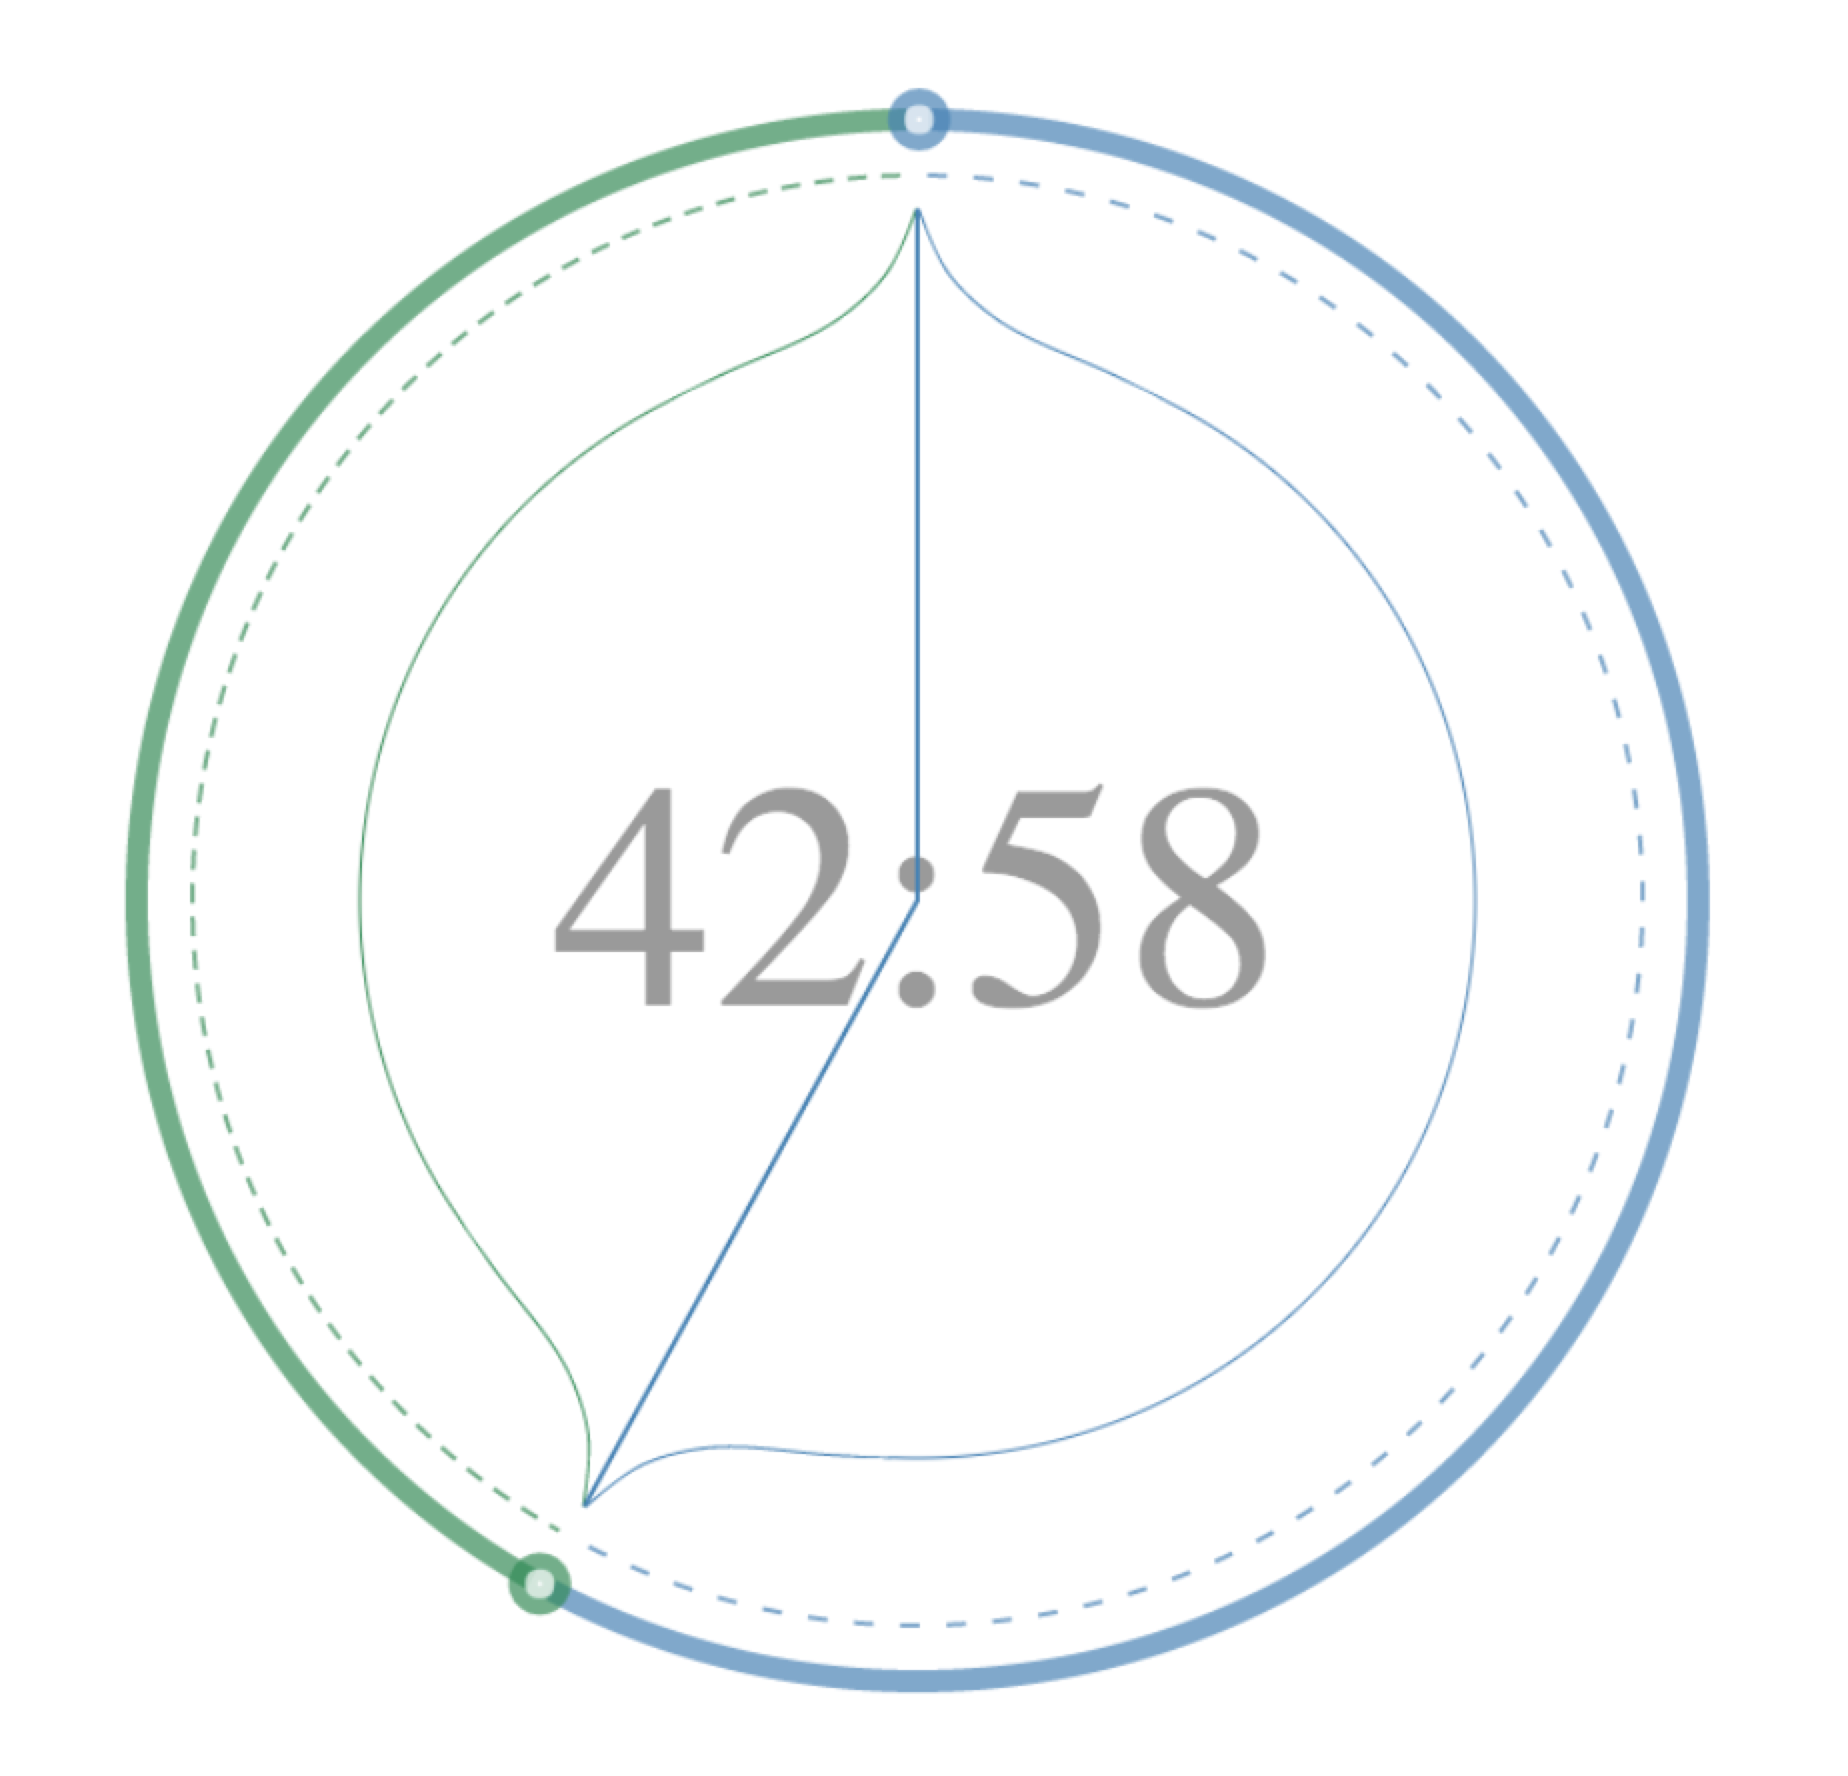
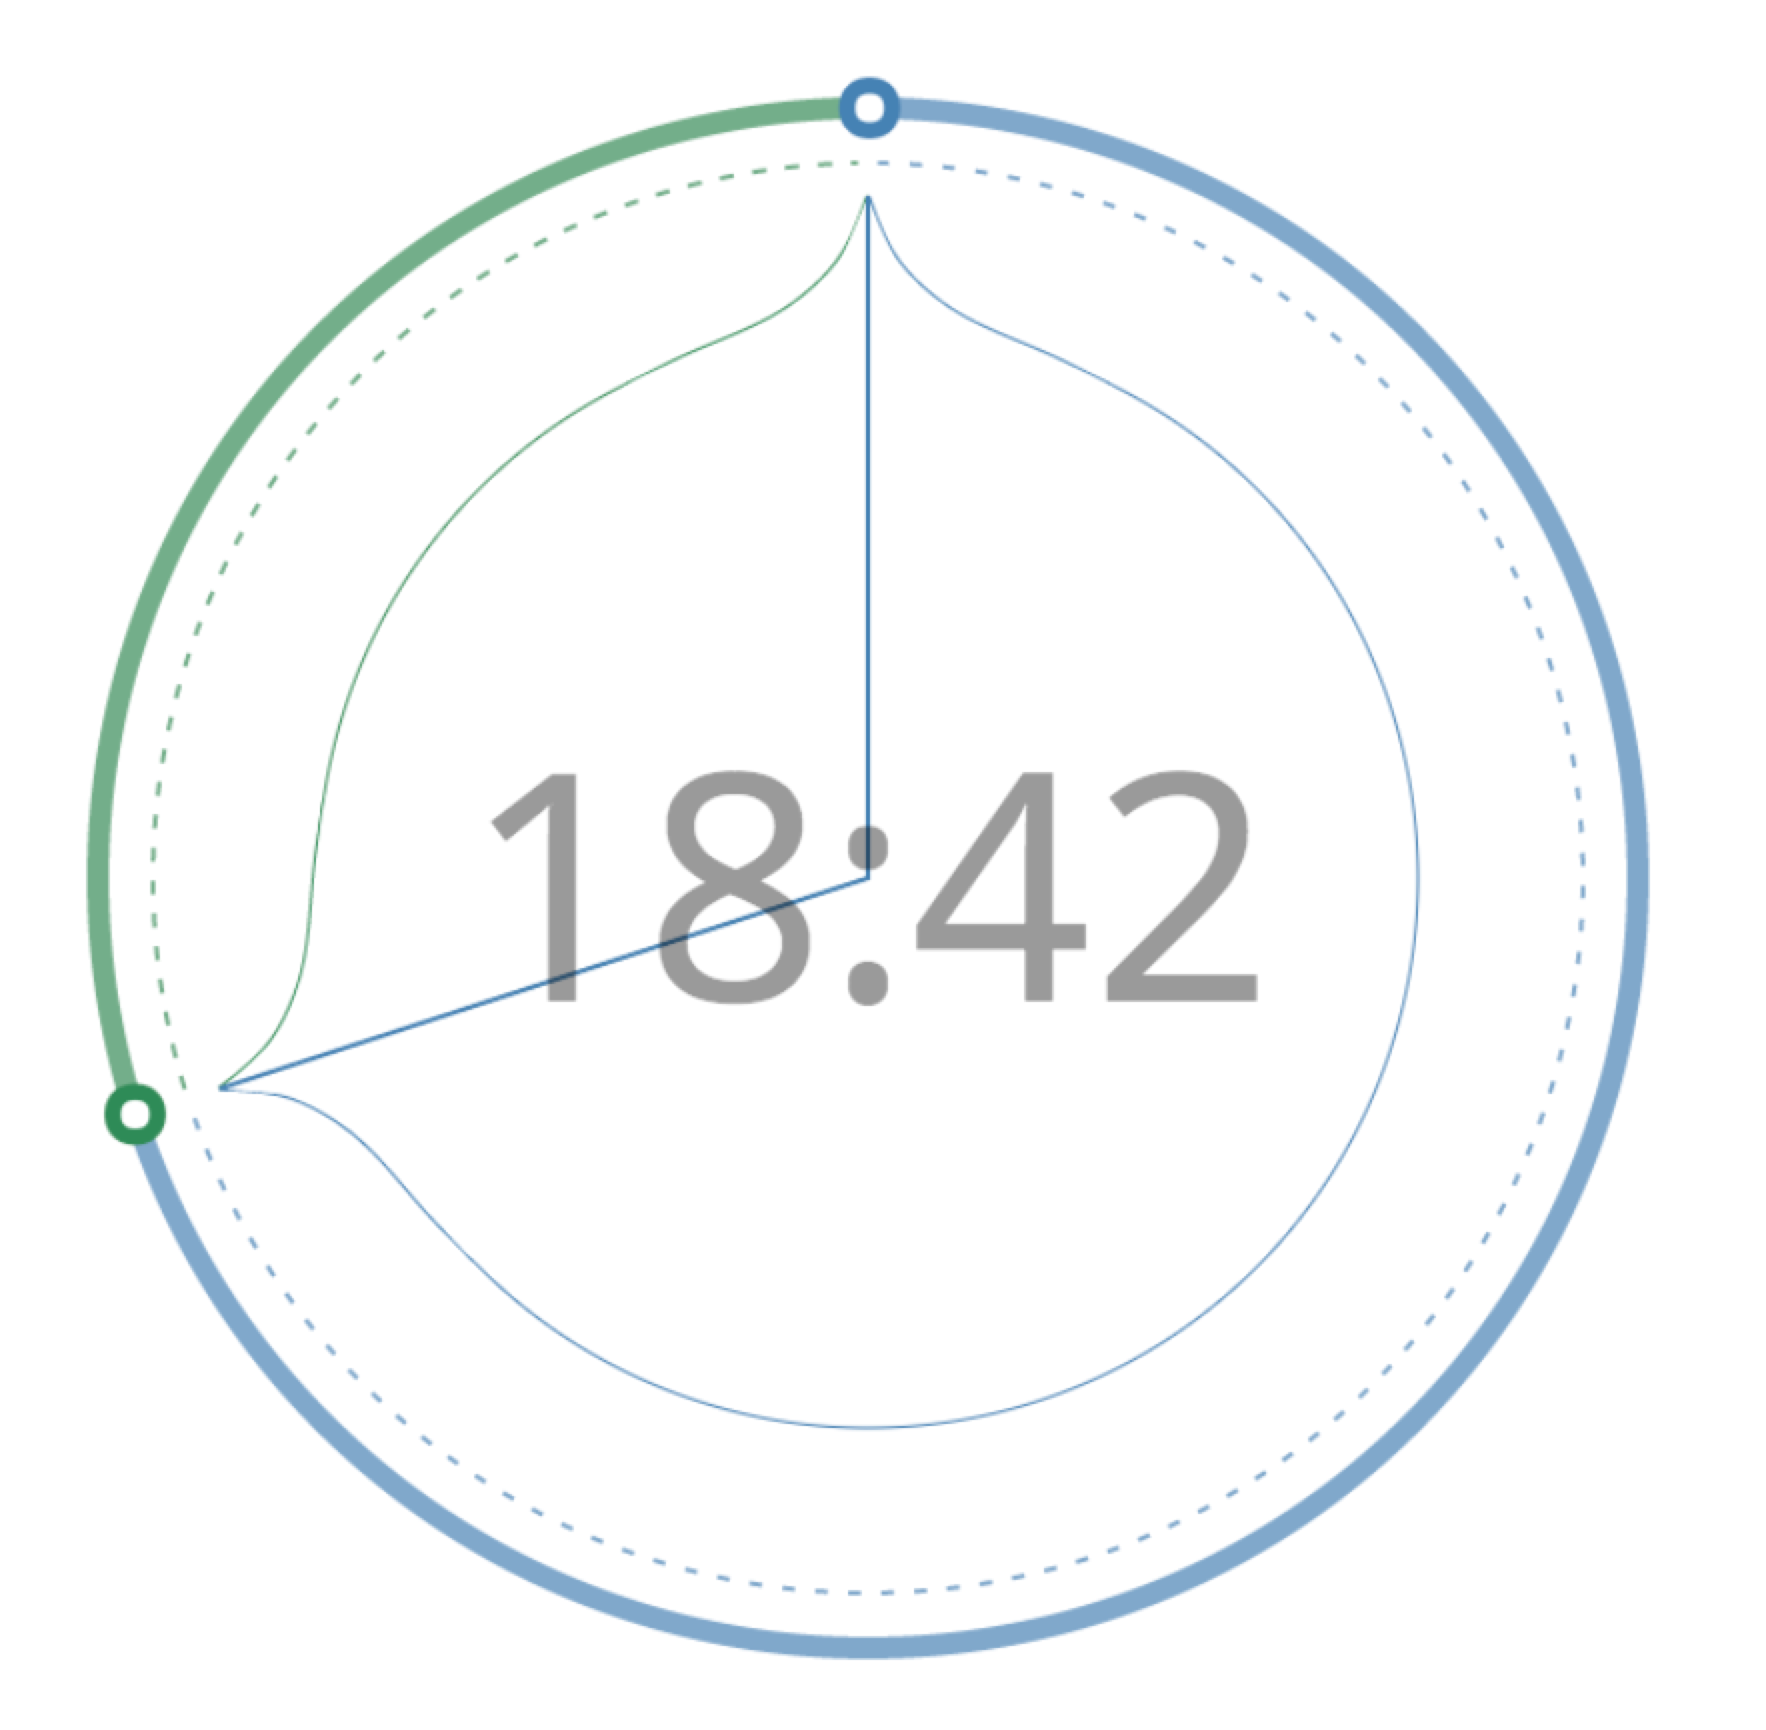
proportion  maybe done

diff --git a/lib/utils/shape.js b/lib/utils/shape.js
@@ -82,7 +82,7 @@ export function onion(context, color = ['seagreen', 'steelblue'], vest) {
 
     // lefthand erase arc
     context.save()
-    // context.lineWidth = 3;
+        // context.lineWidth = 3;
     context.strokeStyle = color[1];
     context.fillStyle = '#fff';
     context.beginPath()
@@ -99,14 +99,110 @@ export function onion(context, color = ['seagreen', 'steelblue'], vest) {
 
     // righthand erase arc
     context.save()
-    // context.lineWidth = 3;
+        // context.lineWidth = 3;
     context.strokeStyle = color[1];
     context.fillStyle = '#fff';
     context.beginPath()
 
     curve([...mirrorVestData, {
+        x: -50,
+        y: -190
+    }])
+    context.fill()
+
+    context.restore()
+
+
+
+}
+
+
+// gt 6     vs >=6
+export function onionGt6(context, color = ['seagreen', 'steelblue'], arr = ['left', 'right'], vest) {
+
+    let vestData = vest || vestConfig
+
+    const mirrorVestData = vestData.map((e, i) => {
+        return {
+            x: -e.x,
+            y: e.y
+        }
+    })
+
+
+
+    let curve = d3.line()
+        .x((d) => (d.x))
+        .y((d) => (d.y))
+        .curve(d3.curveCatmullRom.alpha(1))
+        .context(context);
+
+    // lefthand
+    function lefthand() {
+        context.save()
+        context.lineWidth = 2;
+        context.strokeStyle = color[0];
+        context.beginPath()
+
+        curve(vestData)
+        context.stroke()
+
+        context.restore()
+
+    }
+
+
+
+    // righthand
+    function righthand() {
+        context.save()
+        context.lineWidth = 2;
+        context.strokeStyle = color[1];
+        context.beginPath()
+
+        curve(mirrorVestData)
+        context.stroke()
+
+        context.restore()
+    }
+
+    (arr.length === 2) && (lefthand()) && (righthand())
+    if (arr.length === 1) {
+        arr[0] == 'left' ? lefthand() : righthand();
+    }
+
+    // lefthand()
+    // righthand()
+
+
+    // lefthand erase arc
+    context.save()
+        // context.lineWidth = 3;
+    context.strokeStyle = color[1];
+    context.fillStyle = '#fff';
+    context.beginPath()
+
+    curve([...vestData, {
         x: 0,
         y: -200
+    }])
+    context.fill();
+    console.log(12)
+
+    context.restore()
+
+
+
+    // righthand erase arc
+    context.save()
+        // context.lineWidth = 3;
+    context.strokeStyle = color[1];
+    context.fillStyle = '#fff';
+    context.beginPath()
+
+    curve([...mirrorVestData,{
+      x:0,
+      y:-200
     }])
     context.fill()
 
@@ -121,5 +217,41 @@ export function onion(context, color = ['seagreen', 'steelblue'], vest) {
  * @param  {[type]} argument [description]
  * @return {[type]}          [description]
  */
-export function gt6(argument) {
+
+const p0 = [0, 310]
+const p2 = [Math.PI, 310]
+
+export function gt6(context, arr = [p0, p2], color = 'seagreen') {
+
+    let curve = d3.radialLine()
+        .curve(d3.curveCatmullRom.alpha(0.7))
+        .context(context)
+
+    let p0 = arr[0] 
+    let p2 = arr[1] 
+
+    //value 250 is the radius3 in intake-fat-proportion
+    let p1 = [
+        (p0[0] + p2[0]) / 2 , 250+2
+    ]
+
+
+    arr.splice(1, 0, p1)
+    console.log(arr)
+
+    context.save()
+        // context.lineWidth = 3;
+    context.strokeStyle = color;
+    context.fillStyle = '#fff';
+    context.beginPath()
+
+    curve(arr)
+
+    context.fill()
+    context.stroke()
+
+    context.restore()
+
+
+
 }

diff --git a/lib/intake-fat-distribution.js b/lib/intake-fat-distribution.js
@@ -1,6 +1,6 @@
 import D3 from 'd3';
 import { intakeFatProportionConfig, intakeFatDeviationConfig } from './default-config/intake-fat-distribution.config'
-import { onion,gt6 } from './utils/shape'
+import { onion, gt6 ,onionGt6} from './utils/shape'
 
 var d3 = Object.assign({},
     D3,
@@ -125,7 +125,7 @@ export function intakeFatProportion(parrent, config) {
                     context.setLineDash([5, 10])
                 } else {
                     context.setLineDash([5, 10])
-                    // context.setLineDash([5 * vs, 10 * vs])
+                        // context.setLineDash([5 * vs, 10 * vs])
 
                 }
 
@@ -136,7 +136,6 @@ export function intakeFatProportion(parrent, config) {
             context.strokeStyle = i === 0 ? 'seagreen' : 'steelblue';
 
             context.beginPath()
-            console.log(e)
             arc(e)
             context.stroke();
 
@@ -208,6 +207,16 @@ export function intakeFatProportion(parrent, config) {
     /**
      * draw onion curve   =>  two sharp corner
      */
+
+   
+    let twoSharpPoint = [
+        [Math.PI*2, 310],
+        [arcs[0].startAngle, 310]
+    ]
+
+
+    // console.log(twoSharpPoint)
+
     if (vs <= 6) {
 
         context.save()
@@ -223,15 +232,18 @@ export function intakeFatProportion(parrent, config) {
     } else {
 
         context.save()
-        onion(context, ['seagreen', 'steelblue'])
+        onionGt6(context, ['seagreen', 'steelblue'],['right'])
         context.restore()
 
         context.save()
         context.rotate(arcs[1].endAngle)
-            // console.log(arcs[0].startAngle)
-        onion(context, ['steelblue', 'seagreen'])
+        onionGt6(context, ['steelblue', 'seagreen'],['left'])
+
+
         context.restore()
         
+        gt6(context, twoSharpPoint)
+
 
 
     }

diff --git a/README.md b/README.md
@@ -186,6 +186,14 @@ intakeFatProportion(oDom, config)
 }
 
 ```
+There will be 2 cases:
+When the proportion is small enough 
+It will render as below:
+
+<img src="./docs/intake-fat-proportion2.png" width='500'>
+
+When the proportion is somehow normal 
+
 It will render as below:
 
 <img src="./docs/intake-fat-proportion.png" width='500'>
